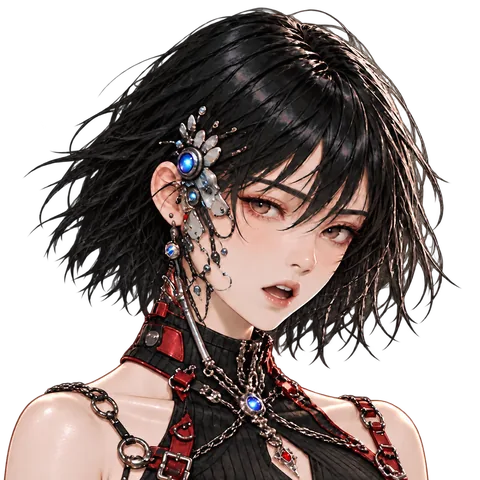
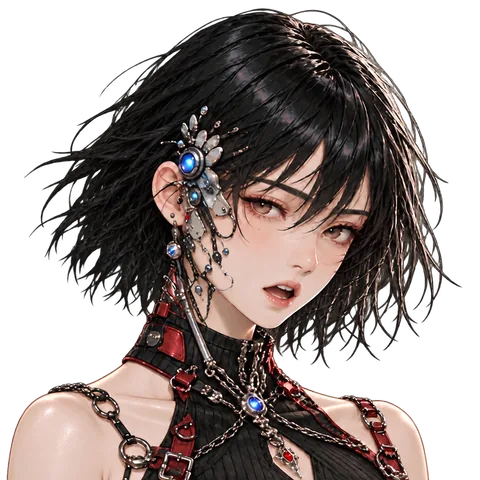
feat: ANの口パクに中間の口をはさみ、滑らかにする
- 口あけ・口半開きは、通常の顔に口のまわりだけを貼った絵にする
  (別々に描いた絵を丸ごと替えると、髪や飾りが口パクのたびにちらついていた)
- 閉じ→半開き→開き→半開きを約0.08秒ごとに回す
- 通常の顔で話すときは、仮の絵用の小さな揺れを止める
- 試作ページのスクリプトを ?v=4 に上げる

Claude-Session: https://claude.ai/code/session_01VzVJYNeHC7nvkkUX3mnhYP

diff --git a/src/js/an-guide.js b/src/js/an-guide.js
@@ -22,7 +22,8 @@
   var FACES = {
     normal: 'assets/an/guide/an-normal.webp',
     blink:  'assets/an/guide/an-blink.webp',
-    talk:   'assets/an/guide/an-talk.webp',
+    talk:   'assets/an/guide/an-talk.webp',   // 口あけ・口半開きは、通常の顔に口のまわりだけ貼った絵
+    mid:    'assets/an/guide/an-mid.webp',    // (別々に描いた絵を丸ごと替えると、髪や飾りがちらつくため)
     smile:  'assets/an/guide/an-smile.webp',
     tsun:   'assets/an/guide/an-tsun.webp',
     think:  'assets/an/guide/an-think.webp'
@@ -121,7 +122,8 @@
     '.ang-stage.ph[data-face=smile] .ang-char img{filter:brightness(1.08) saturate(1.1)}',
     '.ang-stage.ph[data-face=tsun] .ang-char img{transform:rotate(-2.5deg) translateX(-4px)}',
     '.ang-stage.ph[data-face=think] .ang-char img{transform:rotate(2deg) translateY(2px);filter:brightness(.92)}',
-    '.ang-stage.talking .ang-char img{animation:ang-talk .24s steps(2) infinite}',
+    /* 話すときの小さな揺れは、口パクの絵が無いとき(仮の絵・通常以外の表情)だけ。口パクと重なるとがたつく */
+    '.ang-stage.ph.talking .ang-char img,.ang-stage.talking:not([data-face=normal]) .ang-char img{animation:ang-talk .24s steps(2) infinite}',
     '.ang-box{position:absolute;left:12px;right:12px;bottom:12px;padding:16px 16px 14px;border-radius:14px;',
     ' background:rgba(8,11,19,.9);border:1px solid rgba(217,196,154,.32);color:#e9dcba;',
     ' backdrop-filter:blur(6px);-webkit-backdrop-filter:blur(6px);box-shadow:0 10px 40px rgba(0,0,0,.6)}',
@@ -232,7 +234,7 @@
     face = face || 'normal';
     stage.dataset.face = face;
     /* 今の顔(口パク・まばたき中の絵も同じ顔として扱う)と違う表情になるときだけ、ゆっくり変える */
-    var base = (shown === 'talk' || shown === 'blink') ? 'normal' : shown;
+    var base = (shown === 'talk' || shown === 'mid' || shown === 'blink') ? 'normal' : shown;
     var changed = REAL_FACES && base !== face;
     showFace(face, changed);
     choicesEl.innerHTML = '';
@@ -242,9 +244,11 @@
     var mouth = 0;
     /* 表情が溶け終わってから口を動かす(途中で一瞬の切り替えが入ると、溶ける動きが途切れる) */
     var mouthStart = (REAL_FACES && face === 'normal') ? setTimeout(function () {
+      /* 閉じ → 半開き → 開き → 半開き → … と、中間の口をはさんで滑らかに動かす */
+      var seq = ['mid', 'talk', 'mid', 'normal'], si = 0;
       if (my === typing && stage.classList.contains('talking')) mouth = setInterval(function () {
-        showFace(shown === 'talk' ? face : 'talk');
-      }, 120);
+        showFace(seq[si++ % seq.length]);
+      }, 75);
     }, changed ? FADE_MS : 0) : 0;
     function done() {
       clearTimeout(mouthStart); clearInterval(mouth); showFace(face);

diff --git a/an-guide-proto.html b/an-guide-proto.html
@@ -15,7 +15,7 @@
   p{opacity:.85;font-size:15px}
   code{font-size:13px;opacity:.8}
 </style>
-<script src="src/js/an-guide.js?v=3" defer></script>
+<script src="src/js/an-guide.js?v=4" defer></script>
 </head>
 <body>
 <main>
